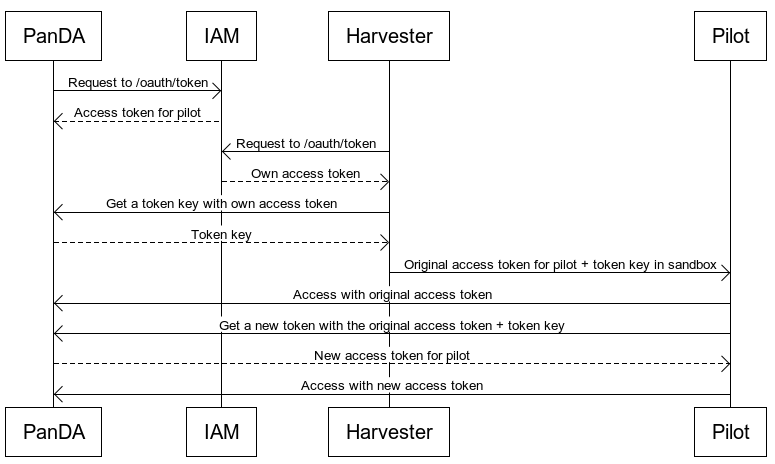
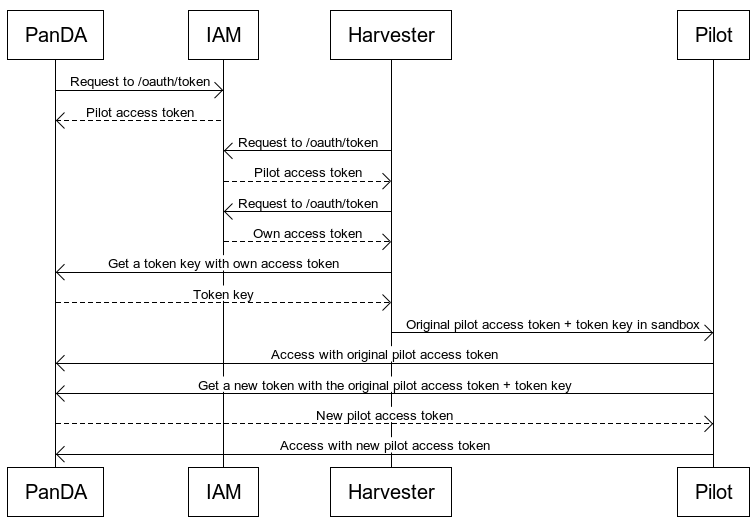
token usage

diff --git a/docs/source/architecture/iam.rst b/docs/source/architecture/iam.rst
@@ -128,6 +128,10 @@ where "client_name" is an arbitrary name for the client, "client_id" is the OIDC
 "endpoint" is the token request endpoint URL, and "use_token_key" is a boolean value indicating whether to use token keys.
 Token keys provide an additional layer of security by limiting the lifetime of access tokens, as described in the next section.
 
+Each robotic client is internally associated with a user named **RobotRole**, as detailed :ref:`later <ref_new_vo>`.
+For the pilot to obtain access tokens, the user associated to the pilot must set the *p* permission flag in the ``GRIDPREF`` column
+in the ``USERS`` table of the PanDA database.
+
 |br|
 
 .. _ref_token_exchange:
@@ -148,6 +152,9 @@ on behalf of the pilot, and the pilot uses these tokens to access the PanDA serv
 Harvester retrieves token keys from the PanDA server and forwards them to the pilot along with the access tokens.
 Token keys have a limited lifetime, ensuring that even if an access token is compromised, obtaining new access
 tokens permanently is impossible.
+The user associated with the Harvester's OIDC client must set the *t* flag in the ``GRIDPREF`` column of the ``USERS``
+table in the PanDA database to obtain token keys from the PanDA server.
+Conversely, the user linked to the pilot's OIDC client should not have the *t* flag.
 
 |br|
 
@@ -171,6 +178,8 @@ OIDC/OAuth2.0 based Auth.
 where *<name of virtual organization>* should be replaced with the actual VO name.
 The *role* is optional and can be omitted if the user does not belong to any role in the VO.
 
+
+.. _ref_new_vo:
 
 Adding a new VO to the PanDA server
 -------------------------------------
@@ -222,7 +231,7 @@ the directory needs to be exposed in ``httpd.conf`` like
 Roles are defined as working groups in the VO in PanDA IAM.
 It is possible to use another OIDC client for a special role in the same VO by adding the role name to the filename.
 E.g, :blue:`a_vo_auth_config.json` for ordinary users in a VO and :blue:`a_vo.a_role_auth_config.json` for selected
-users in the same VO.
+users in the same VO. The user name of robot_ids is internally formatted as **RobotRole**.
 
 
 PanDA IAM gives all group names in the OIDC group attribute. This means that each group name must be unique.
